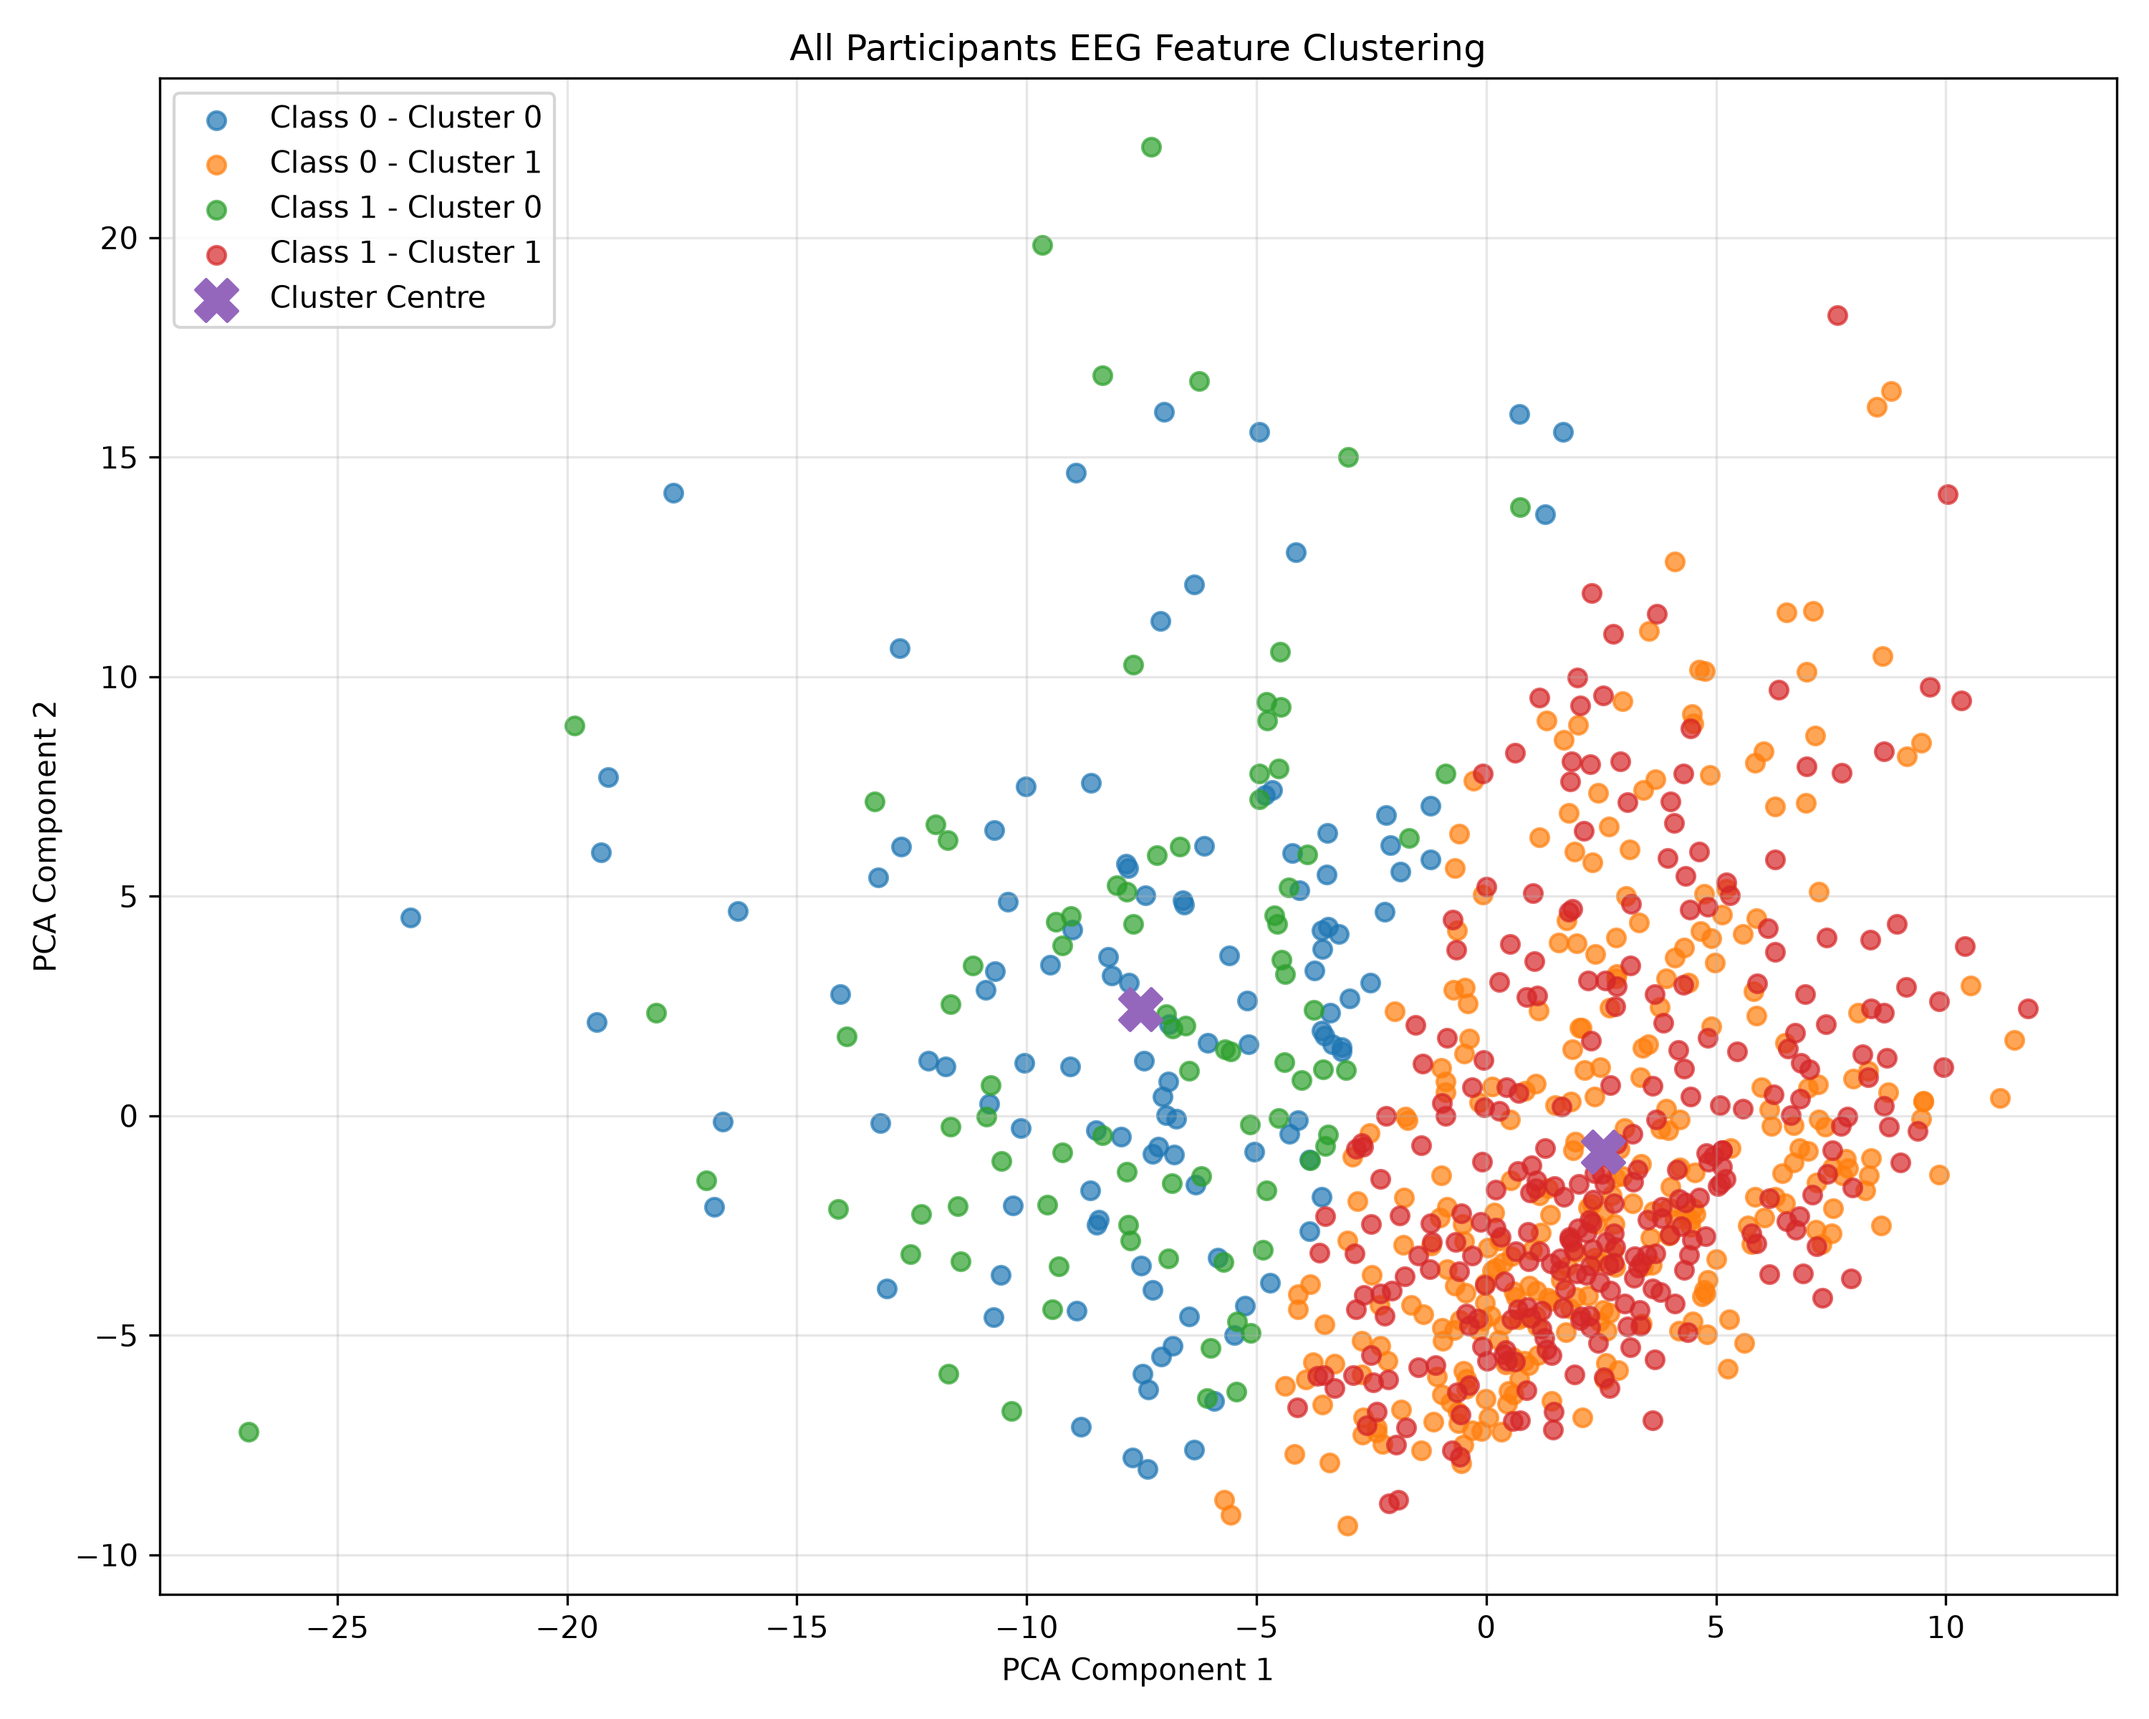
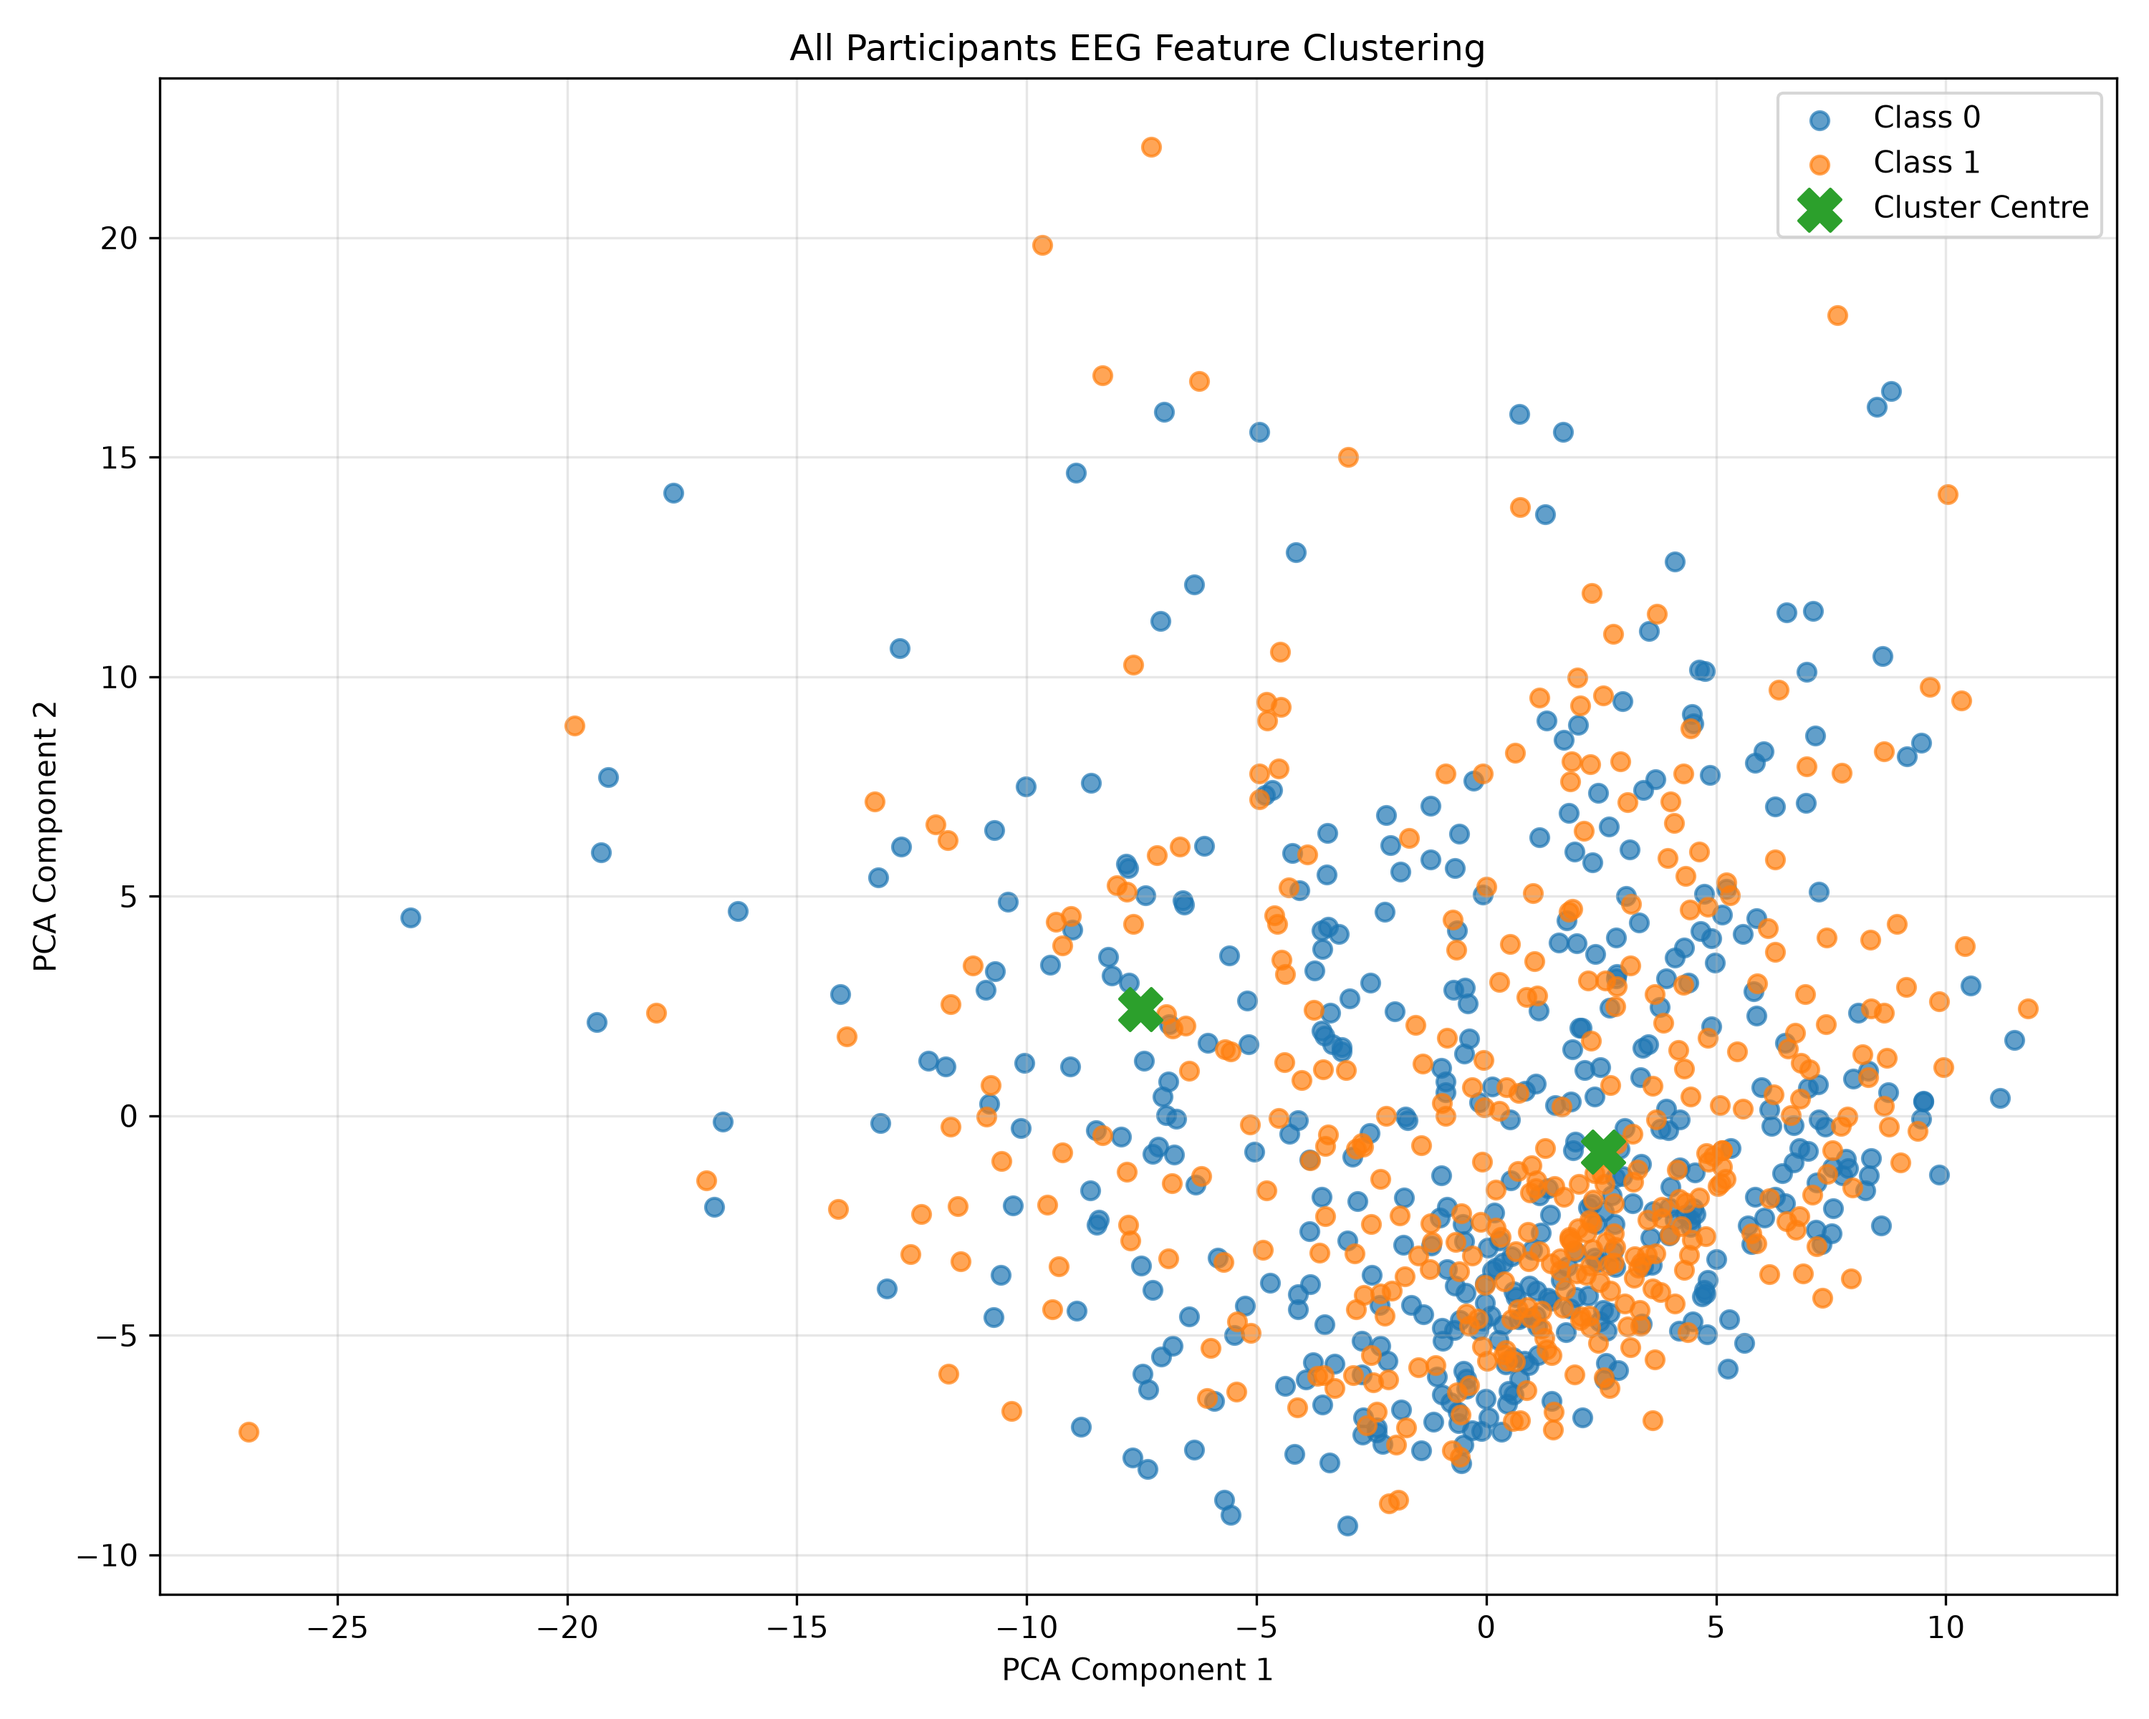
Added temporal features to see if it makes any difference

diff --git a/one_person_loop.py b/one_person_loop.py
@@ -119,16 +119,33 @@ def get_features_labels(file_path):
     #Getting PSD Features
     psds, psd_features = get_psd_features(epochs)
 
-    #The Y Labels
-    encoder = LabelEncoder()
-    y = encoder.fit_transform(epochs.events[:, -1])
-    
     #MNE Features (Experiment 5)
     mne_features = get_mne_features(epochs)
 
-    #X = mne_features
     #Combining PSD + MNE Features (Experiment 6)
     X = np.concatenate((psd_features, mne_features), axis=1)
+
+    #The Y Labels
+    encoder = LabelEncoder()
+    y = encoder.fit_transform(epochs.events[:, -1])
+
+    # TEMPORAL FEATURES
+    #Previous trial's EEG features
+    X_previous = np.zeros_like(X)
+    X_previous[1:] = X[:-1]
+
+    #Change in EEG features from previous trial to current trial
+    X_difference = np.zeros_like(X)
+    X_difference[1:] = X[1:] - X[:-1]
+
+    #Removing first trial because it has no previous trial
+    X = X[1:]
+    X_previous = X_previous[1:]
+    X_difference = X_difference[1:]
+    y = y[1:]
+
+    #Combining current + previous + difference features
+    X = np.concatenate((X, X_previous, X_difference), axis=1)
 
     #Creating names for every feature
     feature_names = []
@@ -142,7 +159,7 @@ def get_features_labels(file_path):
                 "PSD_" + channel + "_" + str(round(frequency, 1)) + "Hz"
             )
 
-   #Names of the MNE features
+    #Names of the MNE features
     mne_feature_names = [
         "line_length",
         "kurtosis",
@@ -160,6 +177,14 @@ def get_features_labels(file_path):
     for feature in mne_feature_names:
         for channel in channels:
             feature_names.append(channel + "_" + feature)
+
+    #Adding names for temporal features
+    original_feature_names = feature_names.copy()
+
+    previous_feature_names = ["PREV_" + name for name in original_feature_names]
+    difference_feature_names = ["DIFF_" + name for name in original_feature_names]
+
+    feature_names = original_feature_names + previous_feature_names + difference_feature_names
 
     print("FEATURE SHAPE :", X.shape)
 
